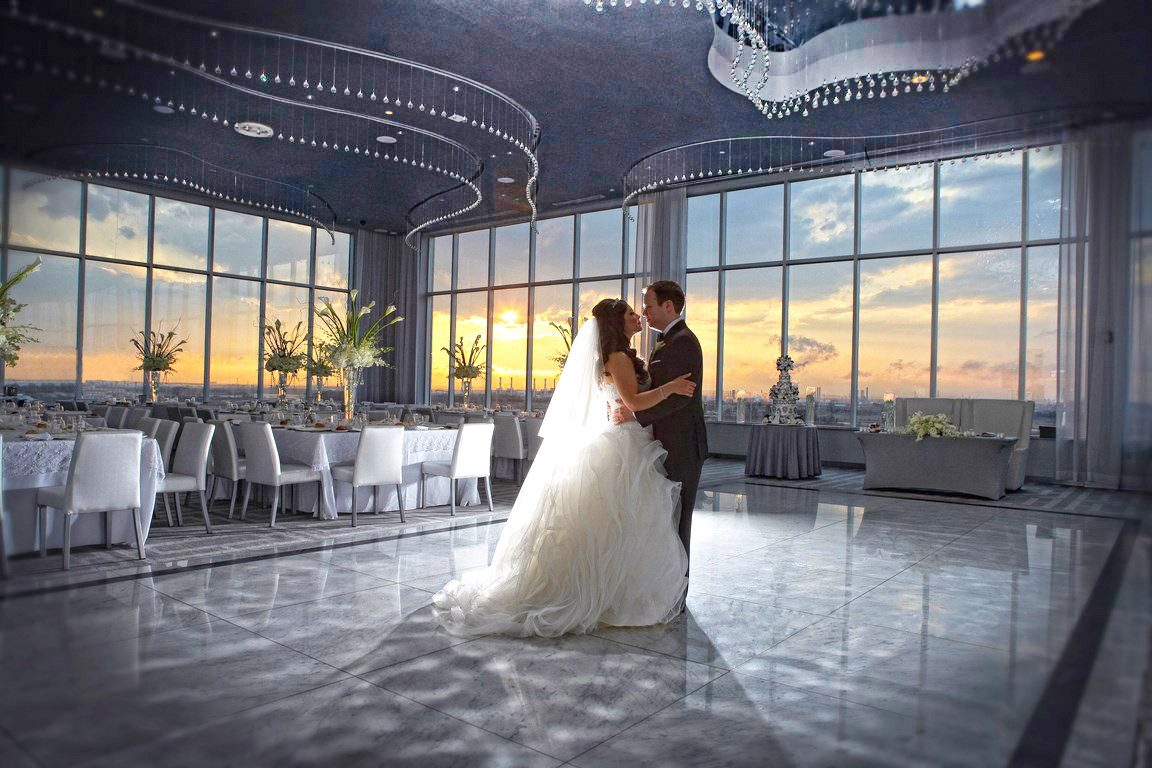
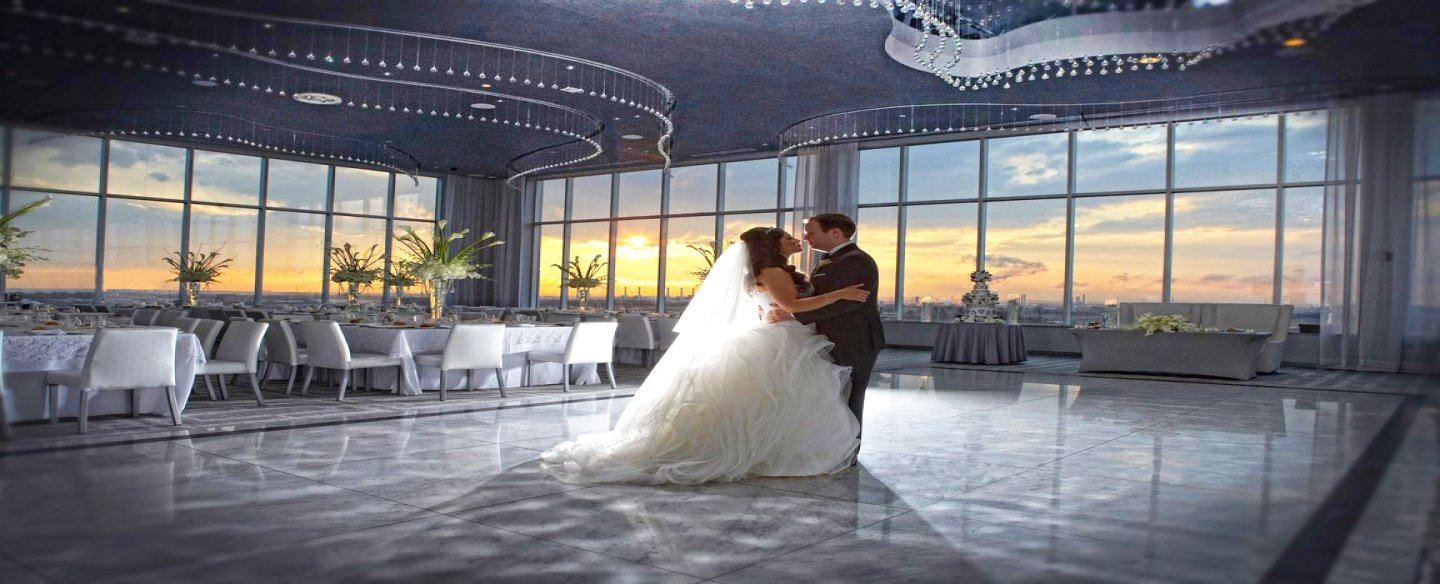
Footer Part Corrected

diff --git a/index.html b/index.html
@@ -64,7 +64,7 @@
                     </div>
                 </div>
                 <div class="carousel-item">
-                    <img src="images/carousel-1.jpg" class="d-block w-100" style="height: 780px;" alt="...">
+                    <img src="images/carousel-1.jpg" class="d-block w-100" alt="...">
                     <div class="carousel-caption d-none d-md-block">
                         <h1>Huge Space for events</h1>
                         <p>Reunions, anniversaries, celebrations, special events, holidays. Your event, your way. Seat
@@ -74,7 +74,7 @@
                     </div>
                 </div>
                 <div class="carousel-item">
-                    <img src="images/carousel-2.jpg" class="d-block w-100 img-fluid" style="height: 780px;" alt="...">
+                    <img src="images/carousel-2.jpg" class="d-block w-100 img-fluid" alt="...">
                     <div class="carousel-caption d-none d-md-block">
                         <h1>Indoor Spaces</h1>
                         <p>The ACC offers ballrooms and event venues for both intimate affairs and large wedding
@@ -287,13 +287,15 @@
     </main>
     <!-- footer section starts  -->
 
-    <footer class="d-flex justify-content-between align-items-center px-5">
-        <div>
+    <footer class="d-flex justify-content-between bg-dark">
+        <div class="d-flex justify-contenet-start align-items-center">
             <p class="text-white px-5">&copy; 2022 All rights reserved</p>
         </div>
-        <div class="text-move-bg">
-            <p class="app-text-decoration">Get the App</p>
+        <div class=" text-center">
             <ul>
+                <li>
+                    <p class="text-light">Get the App</p>
+                </li>
                 <li><a href="https://apps.apple.com/us/app/wedding-planner-by-the-knot/id457941553"><img class="w-25"
                             src="images/app-store.png" alt=""></a></li>
                 <li><a href="https://play.google.com/store/apps/details?id=com.bridestory.user&hl=en&gl=US"><img

diff --git a/style/style.css b/style/style.css
@@ -8,19 +8,6 @@ ul {
   .bg-customize-plan-color{
     background-color: #3F87F5;
   }
-  footer{
-    /* display: flex;
-    justify-content: center;
-    flex-direction: column;
-    align-items: center; */
-    background-color: black;
-    margin-top: 100px;
-    height: 250px;
- }
- .app-text-decoration{
-   color: #D9DBE1;
-   padding-left: 100px;
-   size: 18px;
-   margin-top: 20px;
- }
+ 
+ 
  
